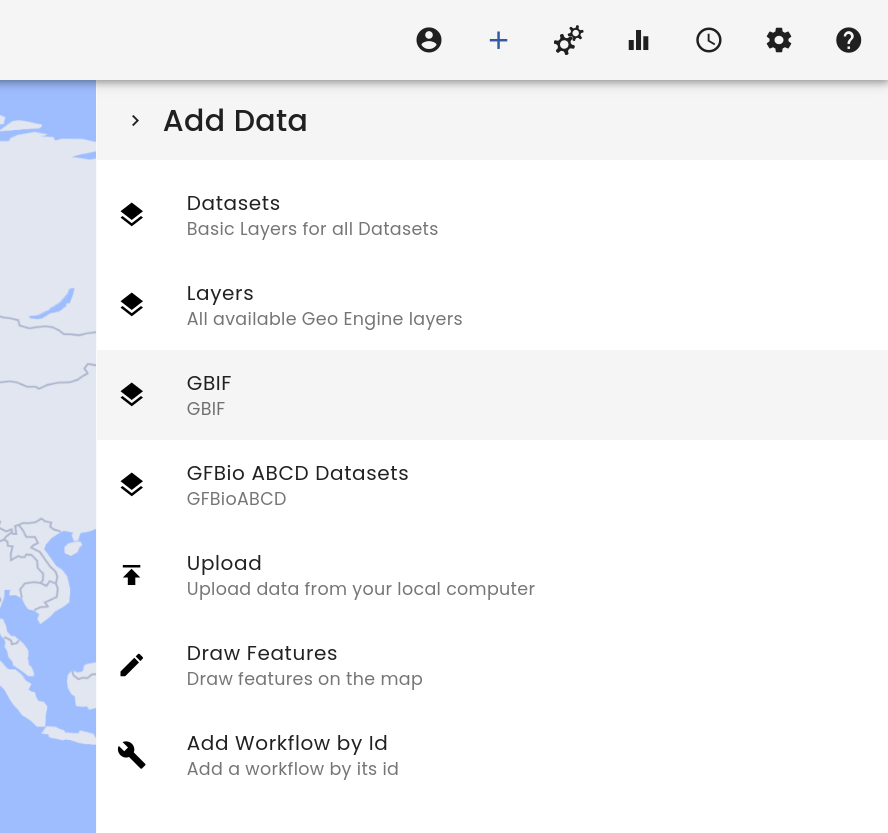
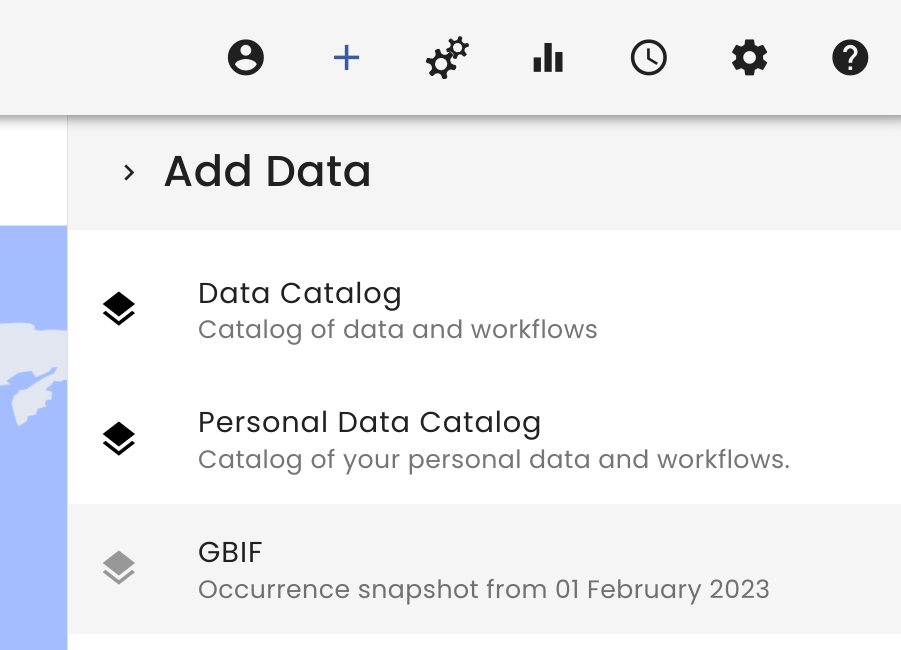
GBIF data description

diff --git a/src/features/gbif.md b/src/features/gbif.md
@@ -1,10 +1,19 @@
-# GBIF Search
+# GBIF Data & Search
 
 ![Select GBIF](media/select-gbif.png)
 
-The VAT system provides access to regular dumps of the GBIF occurrence data.
+The VAT system provides access to a snapshot of the GBIF occurrence data.
 This allows users to easily access GBIF data without having to download the data themselves.
 In addition, they can map the data together with other data sources in the VAT system.
+
+The GBIF snapshot contains all occurrences available at [gbif.org](https://www.gbif.org) at the time of the snapshot. The snapshot date is noted in the GBIF data provider description (see *Add Data* dialog above).
+Since data in VAT is spatio-temporal, we filter the occurrences by three conditions:
+1. They have a coordinate
+2. They have no geospatial issues
+3. They have an event time
+
+All occurrences fulfilling these three conditions are imported into a [PostgreSQL](https://www.postgresql.org/) database and indexed by time and space (using the [PostGIS extension](https://postgis.net/)), as well as family, genus and species names.
+To enable browsing along the taxonomic hierarchy, we additionally import GBIF's [backbone taxonomy](https://www.gbif.org/dataset/d7dddbf4-2cf0-4f39-9b2a-bb099caae36c). We also retrieve the citations for all datasets through the [registry API endpoint](https://techdocs.gbif.org/en/openapi/v1/registry) to be able to compile them according to GBIF's [citation guidelines](https://www.gbif.org/citation-guidelines) for a set of filtered occurrences.  
 
 ![GBIF groups](media/gbif-groups.png)
 
